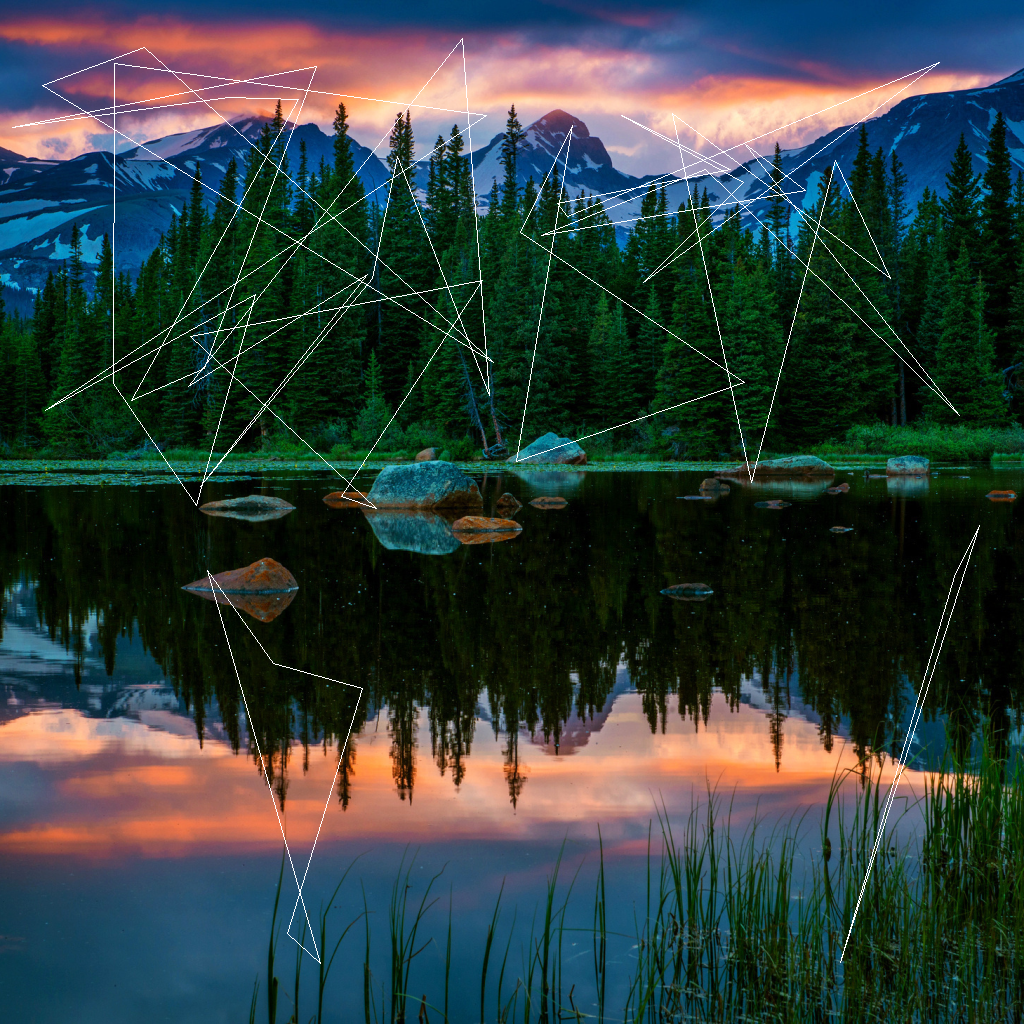
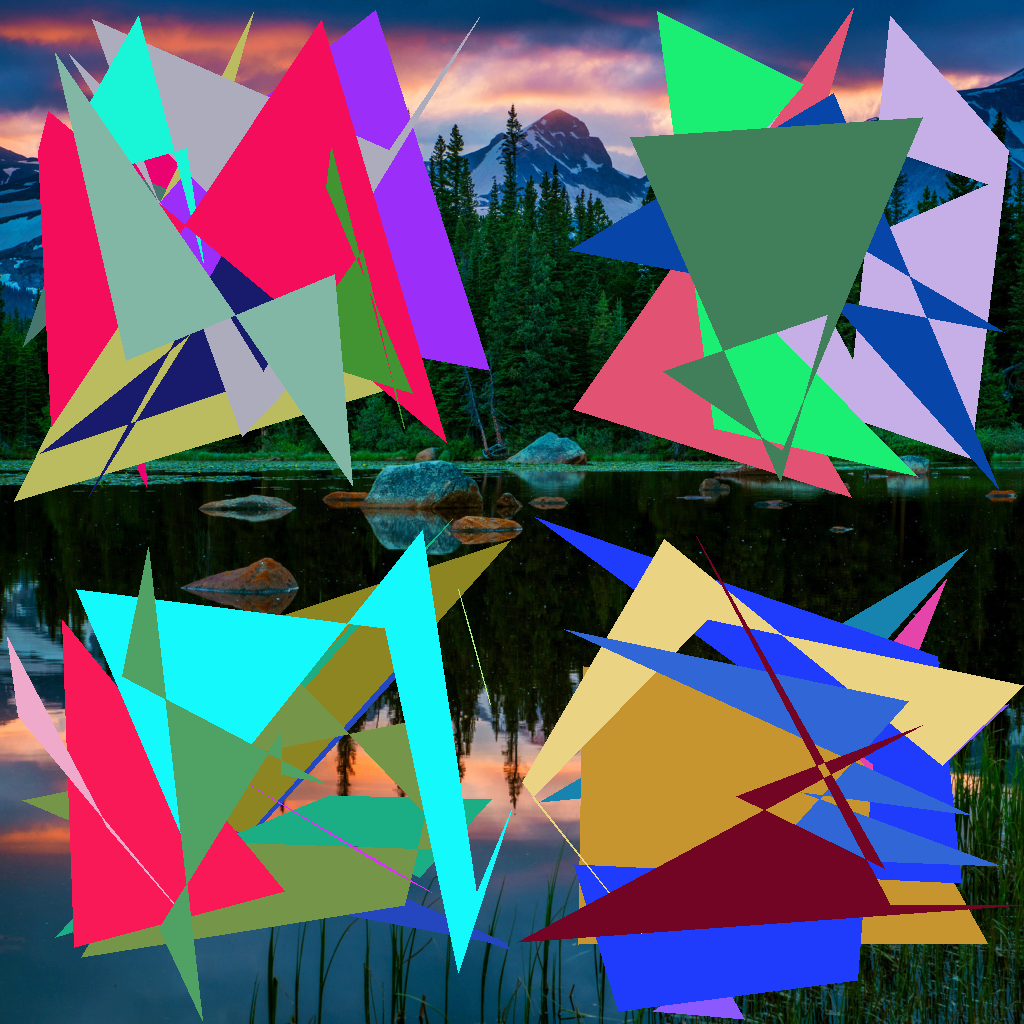
Добавила функцию для метода pnPOLY Закрасила каждый полигон цветом

diff --git a/main.py b/main.py
@@ -2,7 +2,7 @@ import json
 import random
 # import numpy as np
 # import matplotlib.image as img
-from PIL import Image, ImageDraw
+from PIL import Image, ImageDraw, ImageColor
 # import json
 
 
@@ -45,7 +45,6 @@ def initializing(i=0):
 
     for i in range(4):
         polygon_numb = random.randint(1, 10)
-        # polygon_numb = 2
         # print(f'Это участок под номером {i}')
         # print("количество полигонов", polygon_numb)
         for j in range(polygon_numb):
@@ -61,9 +60,10 @@ def initializing(i=0):
             else:
                 """Добавление полигона в класс деревьев"""
                 class_1.append(corner_coordinates)
-            # print('Координаты - ', corner_coordinates)
+
+            color = (random.randint(0, 255), random.randint(0, 255), random.randint(0, 255))
             img0 = ImageDraw.Draw(images[i])
-            img0.polygon(corner_coordinates)
+            img0.polygon(corner_coordinates, color)
             # images[i].show()
 
     print('Препятствия 0:', *class_0)
@@ -84,14 +84,32 @@ def obstacle_data_1(coordinates, coors):
     """Получение данных о препятствиях - первый вариант"""
 
     coordinates = tuple(int(x) for x in coordinates.split(","))
-    if coordinates in coors:
-        print('ok')
-        img0 = Image.open('Test2.png')
-        image0 = ImageDraw.Draw(img0)
-        image0.polygon(coordinates)
-        img0.show()
-    else:
-        print('not ok')
+
+
+def point_in_polygon(x, y, verts):
+    """
+    - алгоритм pnpoly
+    - xyverts  [(x1, y1), (x2, y2), (x3, y3), ...]
+    """
+    try:
+        x, y = float(x), float(y)
+    except:
+        return False
+    vertx = [xyvert[0] for xyvert in verts]
+    verty = [xyvert[1] for xyvert in verts]
+
+    # N, максимальное и минимальное значение абсциссы и ордината и определяют, находится ли целевая точка координат в четырехлучевой форме.
+    if not verts or not min(vertx) <= x <= max(vertx) or not min(verty) <= y <= max(verty):
+        return False
+
+        # Предыдущий проход, основной алгоритм частью
+    nvert = len(verts)
+    is_in = False
+    for i in range(nvert):
+        j = nvert - 1 if i == 0 else i - 1
+        if ((verty[i] > y) != (verty[j] > y)) and (
+                x < (vertx[j] - vertx[i]) * (y - verty[i]) / (verty[j] - verty[i]) + vertx[i]):
+            is_in = not is_in
 
 
 def obstacle_data_2(inp_coordinates, test_coordinates):
@@ -99,13 +117,16 @@ def obstacle_data_2(inp_coordinates, test_coordinates):
 
     info = {
     'corner_numb': None,
-    'existence' : None,
+    'existence'  : None,
     'coordinates': None
     }
 
-    if type(inp_coordinates) == 'tuple':
-        pass
+    if type(inp_coordinates) == "<class 'tuple'>":
+        print('все сходится')
     else:
+        ds = type(inp_coordinates)
+        print('тип', ds)
+
         inp_coordinates = tuple(int(x) for x in inp_coordinates.split(","))
         if inp_coordinates in test_coordinates:
             info['corner_numb'] = len(inp_coordinates)
@@ -120,8 +141,7 @@ def obstacle_data_2(inp_coordinates, test_coordinates):
         print(f.read())
 
 
-
 c = initializing()
 # print('это', c[0])
-obstacle_data_1(input(), c[0])
-obstacle_data_2(input(), c[0])
+# obstacle_data_1(input(), c[0])
+# obstacle_data_2(input(), c[0])
